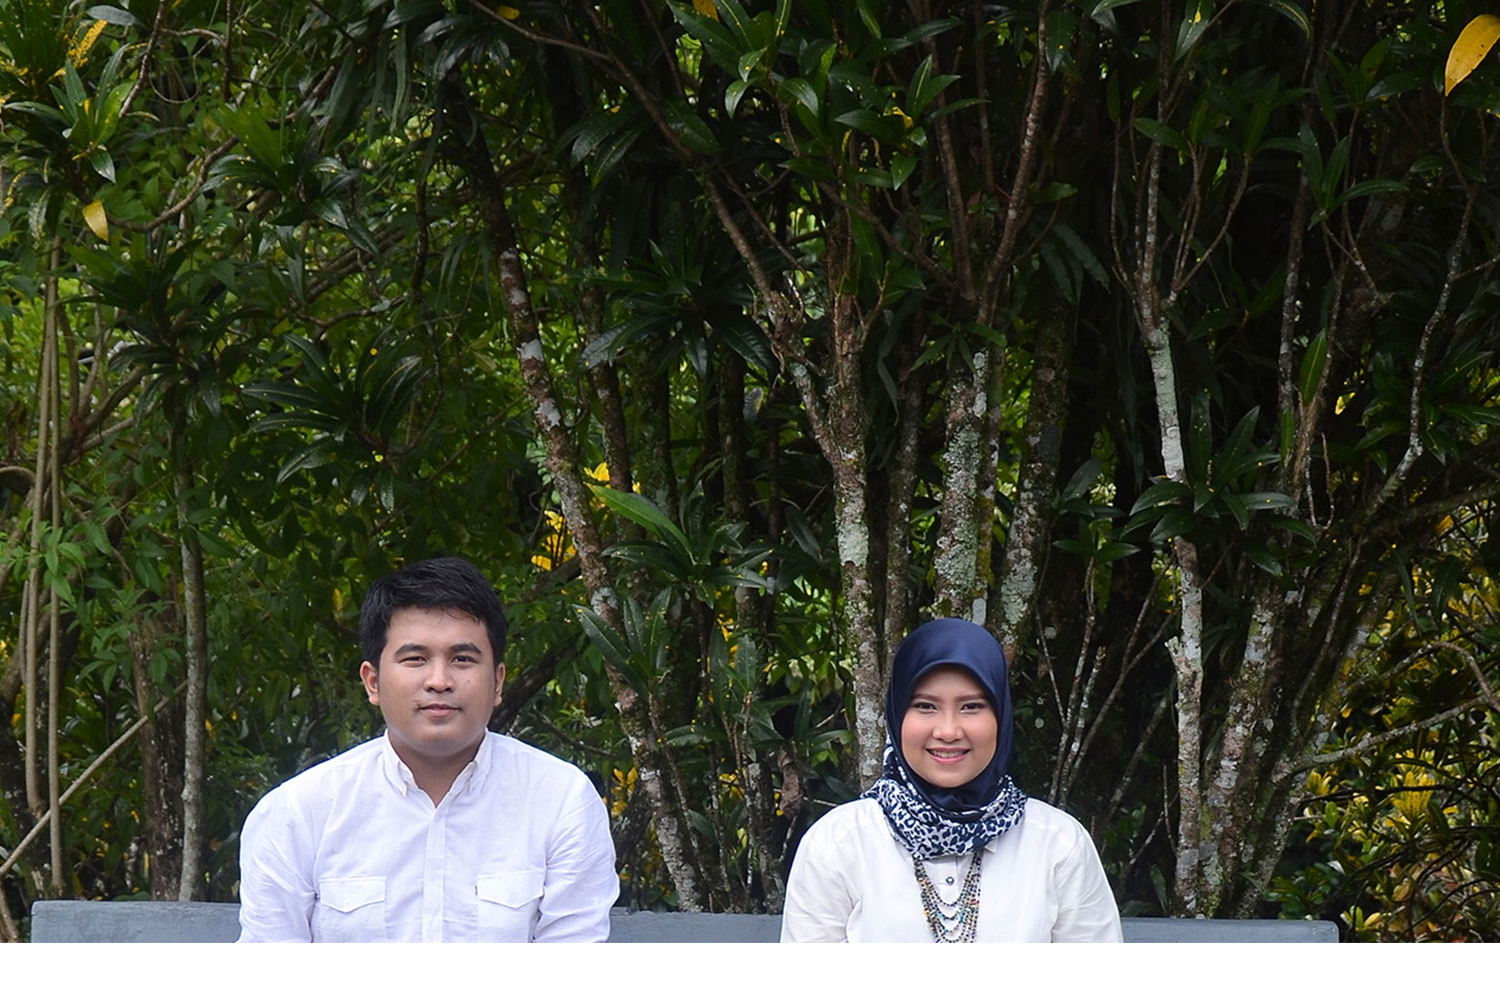
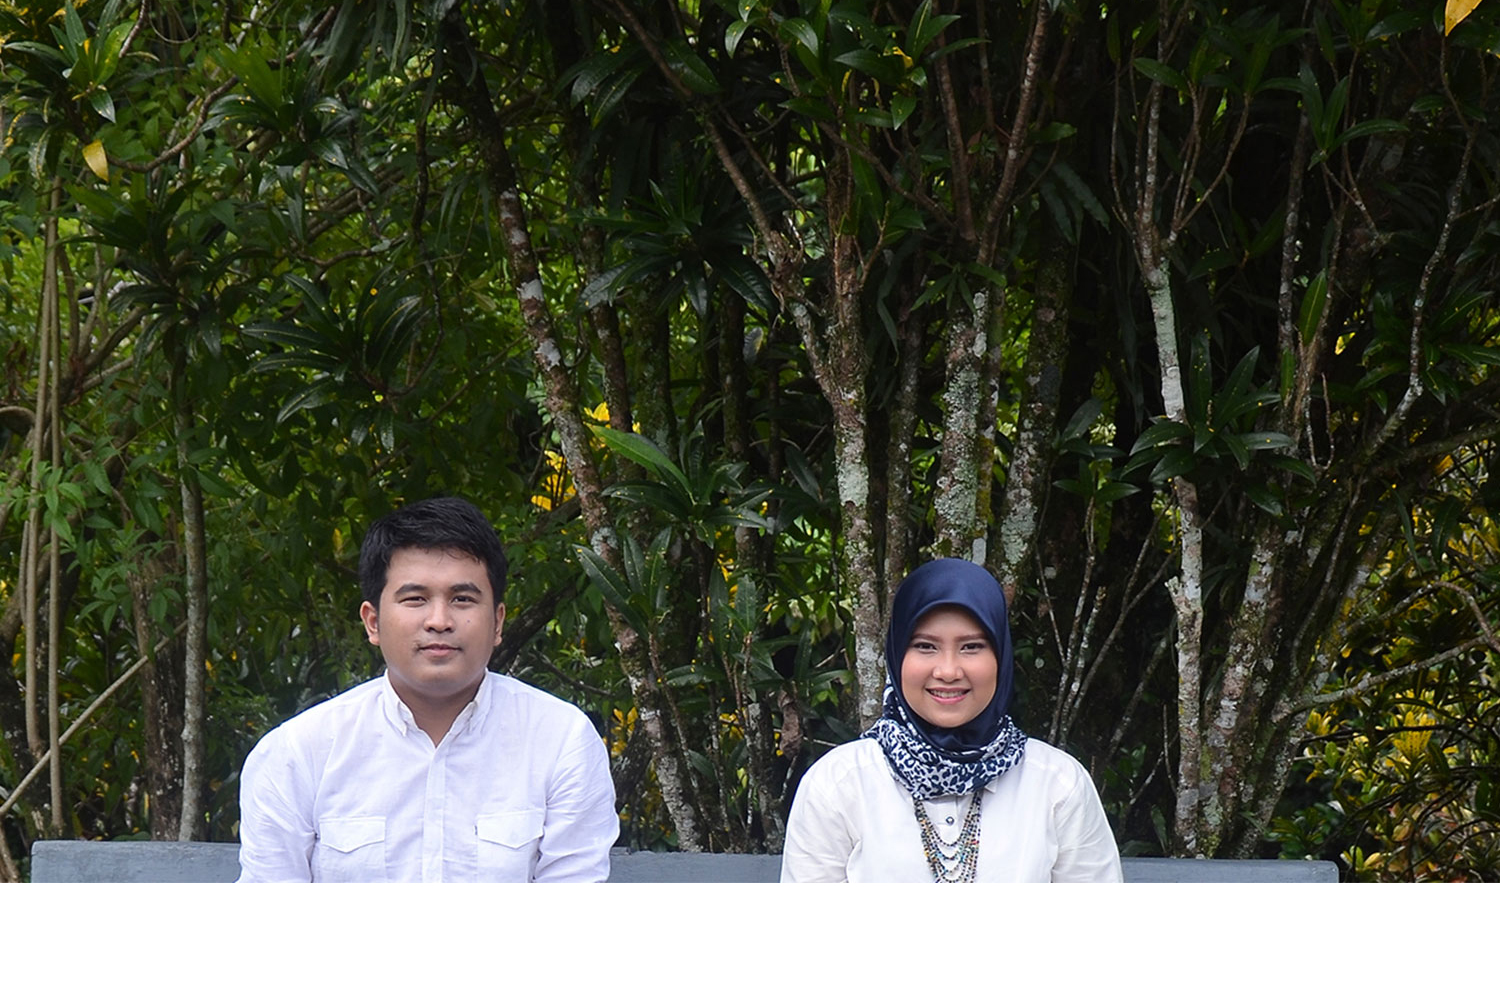
Bugs Fixing
Image cover and Wording

diff --git a/index.html b/index.html
@@ -142,7 +142,7 @@
 									<span class="date">We were born in the world</span>
 								</div>
 								<div class="timeline-body">
-									<p>Lida was born in Bekasi, West Java, on September 15th. Amonth later, Angga was born on October 16th, in Jakarta.</p>
+									<p>Lida was born in Bekasi, West Java, on September 15th. A month later, Angga was born on October 16th, in Jakarta.</p>
 								</div>
 							</div>
 						</li>
@@ -154,7 +154,8 @@
 									<span class="date">We were in the same senior high school</span>
 								</div>
 								<div class="timeline-body">
-									<p>When we were 15 years old, we were in similar school but we still didn’t know each other at first. We were like clock hands in 6 o’clock; we had been in the same circle, but we hadn’t crossed each other yet. Moreover, the time was keep moving through its circle until both of us would meet on the same point at the right time.</p>
+									<p>When we were 15 years old, we were in similar school but we still didn’t know each other at first. We were like clock hands in 6 o’clock,
+										we had been in the same circle, but we hadn’t crossed each other yet. Moreover, the time was keep moving through its circle until both of us would meet on the same point at the right time.</p>
 								</div>
 							</div>
 						</li>
@@ -203,7 +204,7 @@
 									<span class="date">We graduated</span>
 								</div>
 								<div class="timeline-body">
-									<p>We graduated on the adjacent time. Angga had graduation day on 7 december and got S.Si as hi
+									<p>We graduated on the adjacent time. Angga had graduation day on 7 december and got S.Si as his
 									academic title. One day later, Lida celebrated her graduation and got S.T as her academic title.</p>
 								</div>
 							</div>
@@ -237,19 +238,32 @@
 			</div>
 			<div class="row">
 				<div class="col-md-8 col-md-offset-2 text-center animate-box">
-			<blockquote class="bq-style" style="font-family: cursive;">"Marriage is a school where we will get the certificate before we start.
+			<!-- <blockquote class="bq-style" style="font-family: cursive;">"Marriage is a school where we will get the certificate before we start.
  <br>A school where we will never graduate. <br>
 A school without a break or a free period. <br>
  A school where there is no sick leave or holidays. "<br>
 A school founded by ALLAH SWT.
-</blockquote>
-<blockquote class="bq-style" style="font-family: cursive;">
+</blockquote> -->
+<p class="bq-style" style="font-family: cursive;">"Marriage is a school where we will get the certificate before we start.
+ <br>A school where we will never graduate. <br>
+A school without a break or a free period. <br>
+ A school where there is no sick leave or holidays. "<br>
+A school founded by ALLAH SWT.
+</p>
+<!-- <blockquote class="bq-style" style="font-family: cursive;">
 1.On the foundation of love, <br>
 2.The walls made of trust, <br>
 3.The door made of acceptance,<br>
  4.The windows made of understanding. <br>
 5.The furniture made of blessings. <br>
-6.The roof made of faith.</blockquote>
+6.The roof made of faith.</blockquote> -->
+<p class="bq-style" style="font-family: cursive;">
+1.On the foundation of love, <br>
+2.The walls made of trust, <br>
+3.The door made of acceptance,<br>
+ 4.The windows made of understanding. <br>
+5.The furniture made of blessings. <br>
+6.The roof made of faith.</p>
 </div></div>
 		</div>
 	</div>
@@ -271,7 +285,7 @@ A school founded by ALLAH SWT.
 									<h3>AKAD NIKAH</h3>
 									<div class="event-col">
 										<i class="icon-clock"></i>
-										<span>08.00 AM</span>
+										<span>8 AM</span>
 									</div>
 									<div class="event-col">
 										<i class="icon-calendar"></i>
@@ -285,7 +299,7 @@ A school founded by ALLAH SWT.
 									<h3>RESEPSI</h3>
 									<div class="event-col">
 										<i class="icon-clock"></i>
-										<span>11:00-13:00 AM</span>
+										<span>11 AM - 1 PM</span>
 									</div>
 									<div class="event-col">
 										<i class="icon-calendar"></i>
@@ -383,7 +397,7 @@ A school founded by ALLAH SWT.
 							</a>
 						</li>
 						<li class="one-third animate-box color-6" data-animate-effect="fadeIn" style="background-image: url(images/gallery-11.jpg); ">
-							<a href="images/gallery-11.jpg">
+							<a href="images/gallery-16.jpg">
 							</a>
 						</li>
 						<li class="one-third animate-box color-6" data-animate-effect="fadeIn" style="background-image: url(images/gallery-12.jpg); ">
@@ -402,10 +416,10 @@ A school founded by ALLAH SWT.
 							<a href="images/gallery-15.jpg">
 							</a>
 						</li>
-						<li class="one-third animate-box color-6" data-animate-effect="fadeIn" style="background-image: url(images/gallery-16.jpg); ">
+						<!-- <li class="one-third animate-box color-6" data-animate-effect="fadeIn" style="background-image: url(images/gallery-16.jpg); ">
 							<a href="images/gallery-16.jpg">
 							</a>
-						</li>
+						</li> -->
 					</ul>
 				</div>
 			</div>

diff --git a/wedding.html b/wedding.html
@@ -124,6 +124,33 @@
 			</div>
 		</div>
 	</div>
+	<div id="fh5co-services" class="fh5co-section-gray">
+		<div class="container">
+			<div class="row animate-box">
+				<div class="col-md-8 col-md-offset-2 text-center fh5co-heading">
+					<h2>Locations</h2>
+						</div>
+			</div>
+			<div class="row">
+				<div class="col-md-6">
+					<div class="feature-left animate-box" data-animate-effect="fadeInLeft">
+						<span class="icon">
+							<i class="icon-location2"></i>
+						</span>
+						<div class="feature-copy">
+							<h3>Grand Metropolitan - Function Hall</h3>
+							<p>Jl. K.H Noer Ali, Kalimalang<br>Bekasi Barat - Kota Bekasi</p>
+						</div>
+					</div>
+				</div>
+				<div class="col-md-6 animate-box">
+					<div class="fh5co-video fh5co-bg">
+						<iframe src="https://www.google.com/maps/embed?pb=!1m18!1m12!1m3!1d3966.1085243426996!2d106.98222671488192!3d-6.2494281954764075!2m3!1f0!2f0!3f0!3m2!1i1024!2i768!4f13.1!3m3!1m2!1s0x2e698c36650f06a7%3A0xab6459f022d457!2sGrand+Metropolitan+Bekasi!5e0!3m2!1sen!2sid!4v1481361775884" width="600" height="450" frameborder="0" style="border:0" allowfullscreen></iframe>
+					</div>
+				</div>
+			</div>
+		</div>
+	</div>
 	<footer id="fh5co-footer" role="contentinfo">
 			<div class="container">
 				<div class="row copyright">
